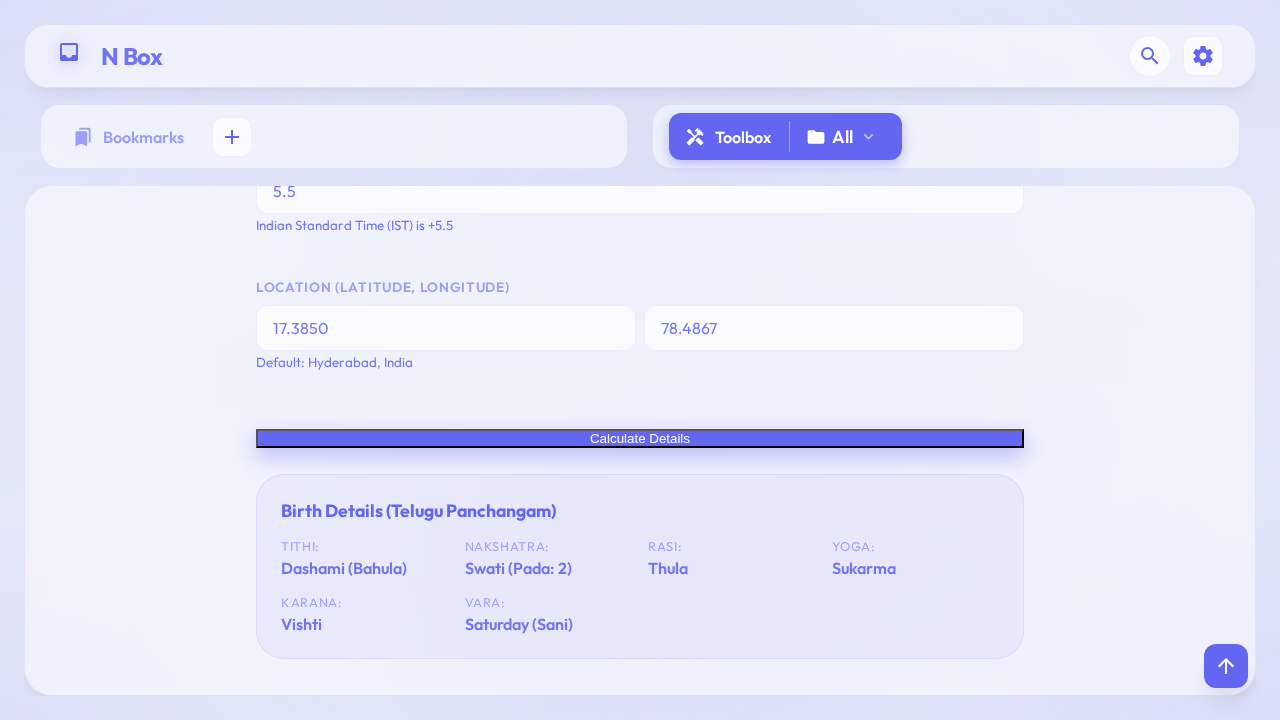
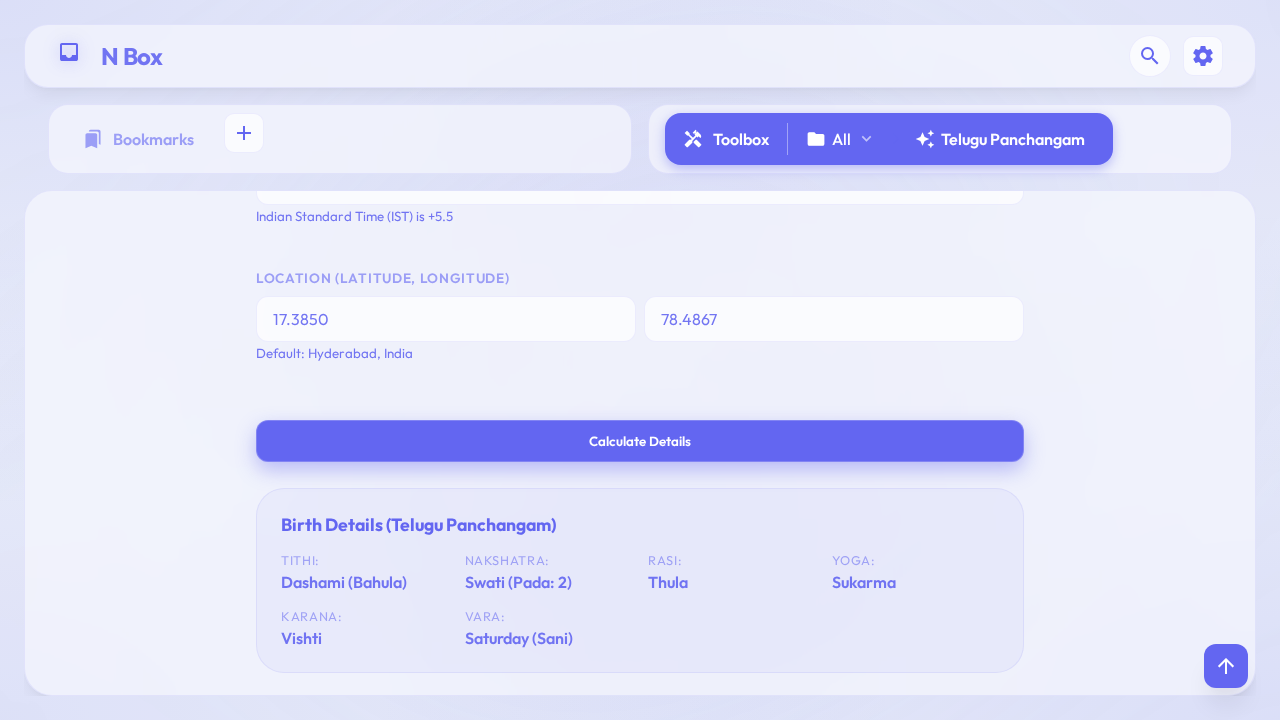
feat: add hierarchical toolbox breadcrumb and refine M3 UI alignment
- Implemented hierarchical breadcrumb in Toolbox (Root > Category > Tool).
- Refined UI alignment in top-bar and tab-bar using flexbox and M3 expressive tokens.
- Removed redundant 'Back' buttons and headers from Toolbox tool views.
- Improved tab padding and corner radii for better visual consistency.
- Updated breadcrumb logic to clear active tool state on category switch.

diff --git a/js/toolbox.js b/js/toolbox.js
@@ -117,49 +117,34 @@ const Toolbox = {
 
     renderTool(container, toolId) {
         container.innerHTML = `
-            <div class="tool-view-header">
-                <button class="pill" onclick="UI.setView('toolbox')" style="padding: 8px 16px;">
-                    <span class="material-icons">arrow_back</span> Back to Toolbox
-                </button>
-                <h2 id="toolbox-title" style="margin: 0;">Tool</h2>
-            </div>
             <div id="toolbox-content-inner" class="tool-container-inner"></div>
         `;
 
         const innerContainer = document.getElementById('toolbox-content-inner');
-        const titleEl = document.getElementById('toolbox-title');
 
         switch (toolId) {
             case 'panchangam':
-                titleEl.textContent = 'Telugu Panchangam (Birth Details)';
                 this.renderPanchangam(innerContainer);
                 break;
             case 'password-gen':
-                titleEl.textContent = 'Password Generator';
                 this.renderPasswordGen(innerContainer);
                 break;
             case 'unit-converter':
-                titleEl.textContent = 'Unit Converter';
                 this.renderUnitConverter(innerContainer);
                 break;
             case 'json-formatter':
-                titleEl.textContent = 'JSON Formatter';
                 this.renderJsonFormatter(innerContainer);
                 break;
             case 'base64-converter':
-                titleEl.textContent = 'Base64 Converter';
                 this.renderBase64Converter(innerContainer);
                 break;
             case 'text-utils':
-                titleEl.textContent = 'Text Utilities';
                 this.renderTextUtils(innerContainer);
                 break;
             case 'age-calculator':
-                titleEl.textContent = 'Age Calculator';
                 this.renderAgeCalculator(innerContainer);
                 break;
             case 'bmi-calculator':
-                titleEl.textContent = 'BMI Calculator';
                 this.renderBmiCalculator(innerContainer);
                 break;
             default:

diff --git a/css/style.css b/css/style.css
@@ -211,15 +211,16 @@ body.no-aurora::after {
 /* Tab Bar Styles */
 .tab-bar {
   display: flex;
-  gap: 1.5rem;
-  padding: 0 1rem;
+  gap: 1rem;
+  padding: 0 1.5rem;
   z-index: 1500;
   overflow: visible;
+  align-items: stretch;
 }
 
 .tab-group {
   display: flex;
-  align-items: center;
+  align-items: stretch;
   gap: 0.75rem;
   background: var(--sidebar-bg);
   backdrop-filter: blur(var(--glass-blur));
@@ -236,13 +237,14 @@ body.no-aurora::after {
   align-items: center;
   gap: 10px;
   cursor: pointer;
-  padding: 8px 16px;
-  border-radius: 12px;
+  padding: 10px 18px;
+  border-radius: 16px;
   transition: all 0.2s;
   color: var(--text-muted);
   font-weight: 600;
   user-select: none;
   position: relative;
+  line-height: 1;
 }
 
 .tab-item .material-icons {
@@ -521,8 +523,8 @@ body.no-aurora::after {
 .breadcrumb-nav {
   display: flex;
   align-items: center;
-  gap: 8px;
-  font-size: 1.1rem;
+  gap: 4px;
+  font-size: 1rem;
   font-weight: 500;
   color: var(--text-muted);
   position: relative;
@@ -530,17 +532,21 @@ body.no-aurora::after {
 }
 
 .breadcrumb-separator {
-  color: var(--border);
+  color: inherit;
+  font-size: 1.2rem !important;
+  opacity: 0.5;
+  user-select: none;
 }
 
 .breadcrumb-item {
   cursor: pointer;
-  transition: color 0.2s;
+  transition: all 0.2s;
   display: flex;
   align-items: center;
   gap: 6px;
-  padding: 4px 8px;
-  border-radius: 6px;
+  padding: 6px 10px;
+  border-radius: 10px;
+  white-space: nowrap;
 }
 
 .breadcrumb-item:hover {
@@ -1251,6 +1257,12 @@ body.no-aurora::after {
 .btn-primary {
   background: var(--primary);
   color: white;
+  border: 1px solid transparent;
+  border-radius: 12px;
+  padding: 12px 24px;
+  font-weight: 600;
+  font-family: inherit;
+  cursor: pointer;
   box-shadow: 0 4px 12px var(--primary-glow);
   transition: all 0.3s cubic-bezier(0.4, 0, 0.2, 1);
 }
@@ -1258,6 +1270,7 @@ body.no-aurora::after {
 .btn-primary:hover {
   transform: translateY(-2px);
   box-shadow: 0 8px 20px var(--primary-glow);
+  border-color: rgba(255, 255, 255, 0.2);
 }
 
 /* Pill Styles for Settings */

diff --git a/js/hub.js b/js/hub.js
@@ -786,14 +786,19 @@ const UI = {
 
   renderToolboxBreadcrumb() {
     const nav = document.getElementById('toolbox-breadcrumb');
-    if (!nav || typeof Toolbox === 'undefined') return;
+    if (!nav || typeof Toolbox === 'undefined' || typeof TOOLS === 'undefined') return;
 
     const toolboxCats = [...new Set(TOOLS.map(t => t.category))].sort();
     const activeIcon = Toolbox.getCategoryIcon(STATE.activeToolboxCategory);
 
+    let activeTool = null;
+    if (STATE.activeToolId) {
+      activeTool = TOOLS.find(t => t.id === STATE.activeToolId);
+    }
+
     nav.innerHTML = `
-      <div style="position:relative">
-         <span class="breadcrumb-active breadcrumb-item" onclick="UI.toggleDropdown(event, 'toolbox')">
+      <div style="position:relative; display: flex; align-items: center;">
+         <span class="breadcrumb-item ${!activeTool ? 'breadcrumb-active' : ''}" onclick="UI.toggleDropdown(event, 'toolbox')">
             ${Utils.renderIcon(activeIcon)} ${STATE.activeToolboxCategory} <span class="material-icons" style="font-size:1.2rem;opacity:0.6">expand_more</span>
          </span>
          <div class="category-dropdown ${STATE.isDropdownOpen === 'toolbox' ? 'active' : ''}">
@@ -810,6 +815,12 @@ const UI = {
                  </div>`;
              }).join('')}
          </div>
+         ${activeTool ? `
+           <span class="material-icons breadcrumb-separator">chevron_right</span>
+           <span class="breadcrumb-active breadcrumb-item">
+             ${Utils.renderIcon(activeTool.icon)} ${activeTool.title}
+           </span>
+         ` : ''}
       </div>
     `;
   },
@@ -825,6 +836,7 @@ const UI = {
       STATE.activeCategory = cat;
     } else {
       STATE.activeToolboxCategory = cat;
+      STATE.activeToolId = null; // Clear active tool when changing category
     }
     STATE.isDropdownOpen = false;
     this.renderBreadcrumb();
